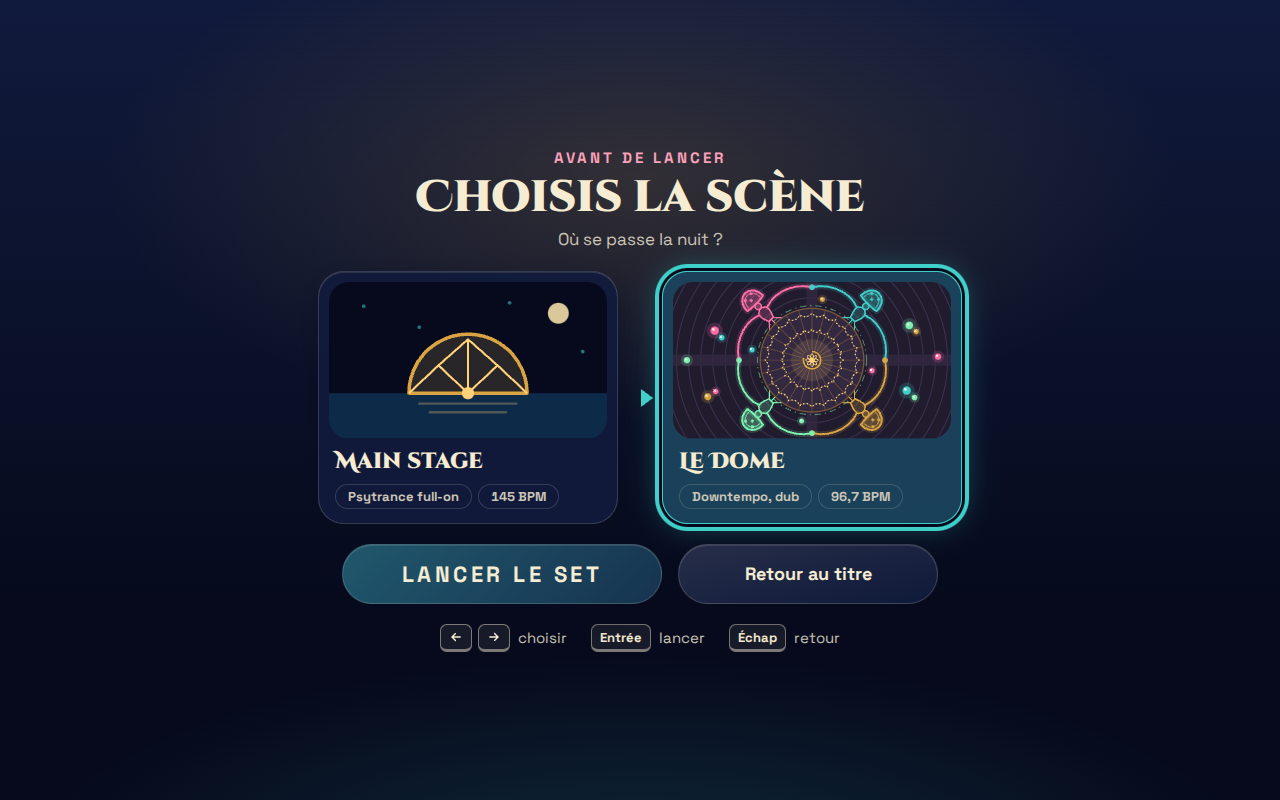
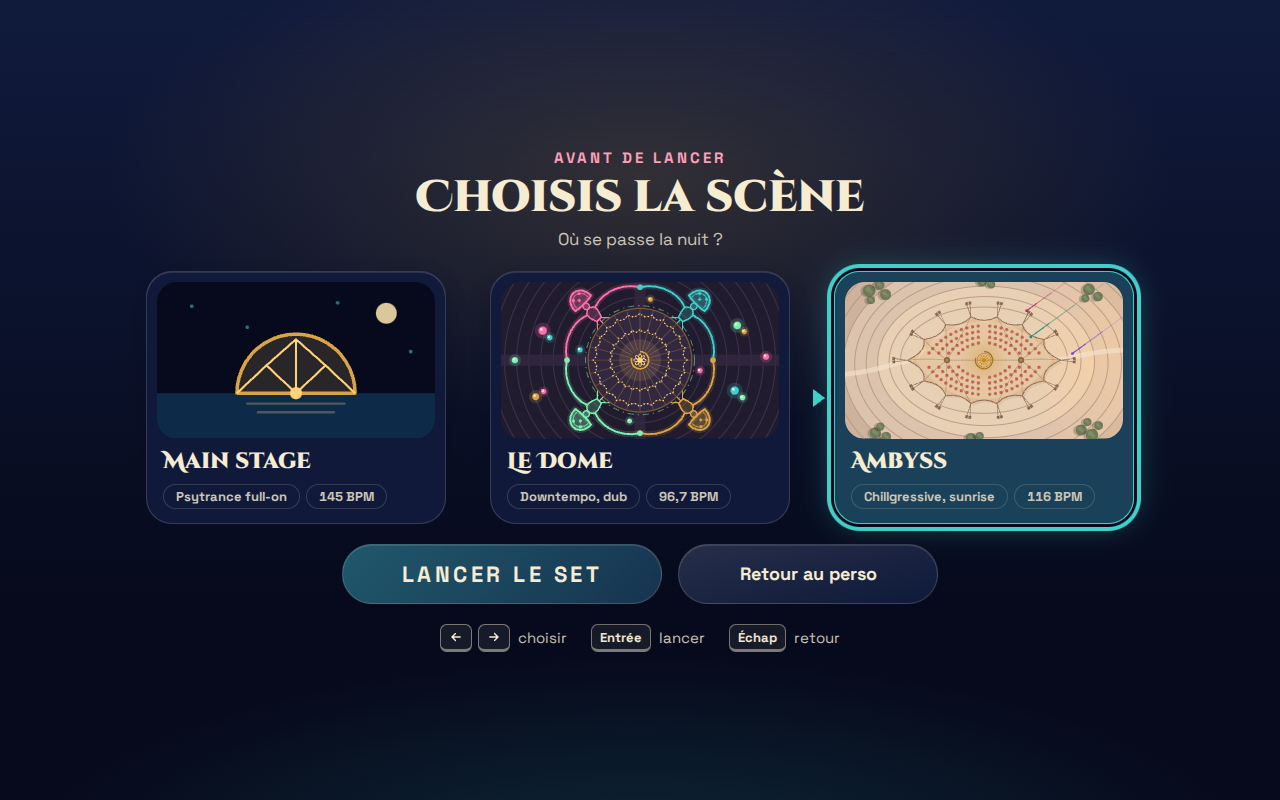
feat: play a whole game at Ambyss in the browser tests, and see it at its four moments
The gamepad player picks Ambyss, the third card of the stage screen, and
wins the short set on the shared seed. pnpm captures shoots Ambyss at dusk,
night, dawn and day, and the stage screen with Ambyss chosen; it gives each
level offer as long as a moment, since Ambyss drawn in software at full
quality can take seconds a frame. README, game design, art direction and
architecture list the third stage, its cosmic filter, tempo and sound.

Closes #374

Changed region(s): [[0.0938, 0.3125, 0.9062, 0.75]]

diff --git a/e2e/game.ts b/e2e/game.ts
@@ -179,6 +179,7 @@ export async function tiltLeftStick(page: Page, x: number, y: number): Promise<v
 export async function repeatUntil(
   action: () => Promise<void>,
   done: () => Promise<boolean>,
+  timeout = 30_000,
 ): Promise<void> {
   await expect
     .poll(
@@ -186,7 +187,7 @@ export async function repeatUntil(
         await action();
         return done();
       },
-      { timeout: 30_000 },
+      { timeout },
     )
     .toBe(true);
 }
@@ -195,8 +196,9 @@ export async function tapButtonUntil(
   page: Page,
   button: number,
   done: () => Promise<boolean>,
+  timeout?: number,
 ): Promise<void> {
-  await repeatUntil(() => tapButton(page, button), done);
+  await repeatUntil(() => tapButton(page, button), done, timeout);
 }
 
 // A fusion swaps a gear at its maximum level (5, for every base gear) for its fused form at level
@@ -234,7 +236,7 @@ export async function readGame(page: Page): Promise<GameSummary | null> {
   }, FUSED_LEVELS);
 }
 
-// A seed whose short set the player of `playWithPad` wins, on the main stage and at the Dome.
+// A seed whose short set the player of `playWithPad` wins, on the main stage, at the Dome and at Ambyss.
 // Some seeds are lost by it: a random one would make its games pass or fail by chance.
 export const PAD_SEED = 1;
 
@@ -243,10 +245,12 @@ export const PAD_SEED = 1;
 // ones. It plays after every step of the game, so that a loaded machine, which draws fewer frames,
 // does not change how it plays. Every level offer is taken with the pad, until the game ends.
 // `start` opens the game once the player is seated, so that it plays from the first step: with a
-// fixed seed (`&seed=`), the whole game is then the same on every run.
+// fixed seed (`&seed=`), the whole game is then the same on every run. `menuMs` bounds each level
+// offer: a page drawn in software at full quality can take seconds a frame.
 export async function playWithPad(
   page: Page,
   start: () => Promise<void> = () => Promise.resolve(),
+  menuMs = 30_000,
 ): Promise<{ status: SimState['status'] | undefined; upgrades: number }> {
   await page.evaluate(() => {
     const game = window.ozoboom;
@@ -303,11 +307,12 @@ export async function playWithPad(
   let status = (await readGame(page))?.status;
   while (status !== 'won' && status !== 'lost') {
     if (status === 'choosingUpgrade') {
-      await expect(firstCard).toHaveAttribute('aria-current', 'true');
+      await expect(firstCard).toHaveAttribute('aria-current', 'true', { timeout: menuMs });
       await tapButtonUntil(
         page,
         PAD.DpadRight,
         async () => (await firstCard.getAttribute('aria-current')) === null,
+        menuMs,
       );
       // Two levels at once present two offers in a row: a choice shows as one more upgrade, not as a status.
       const chosen = (await readGame(page))?.choices ?? 0;
@@ -315,6 +320,7 @@ export async function playWithPad(
         page,
         PAD.A,
         async () => ((await readGame(page))?.choices ?? 0) > chosen,
+        menuMs,
       );
       upgrades += 1;
     }

diff --git a/e2e/ambyss.spec.ts b/e2e/ambyss.spec.ts
@@ -1,0 +1,37 @@
+import { expect, test } from '@playwright/test';
+import {
+  PAD,
+  PAD_SEED,
+  collectConsoleErrors,
+  playWithPad,
+  plugFakeGamepad,
+  tapButtonUntil,
+} from './game';
+
+// Ambyss plays a fifth slower than the main stage: its short set of `?dev=fast` lasts longer.
+test.describe.configure({ timeout: 420_000 });
+
+test('picks Ambyss on the stage screen and plays a whole game there, to the sunrise', async ({
+  page,
+}) => {
+  const errors = collectConsoleErrors(page);
+  await plugFakeGamepad(page);
+  await page.goto(`./?dev=fast&stages&seed=${String(PAD_SEED)}`);
+  const stages = page.getByRole('radiogroup', { name: 'Scènes' });
+  const ambyss = stages.getByRole('radio', { name: /Ambyss/ });
+  await tapButtonUntil(page, PAD.A, () => stages.isVisible());
+  await expect(stages.getByRole('radio', { name: /Main stage/ })).toBeChecked();
+  await tapButtonUntil(page, PAD.DpadRight, () => ambyss.isChecked());
+  const hud = page.getByRole('region', { name: 'Pièges' });
+
+  const { status, upgrades } = await playWithPad(page, async () => {
+    await tapButtonUntil(page, PAD.A, () => hud.isVisible());
+    expect(await page.evaluate(() => window.ozoboom?.state.setId)).toBe('ambyss');
+  });
+  expect(status).toBe('won');
+  expect(upgrades).toBeGreaterThan(0);
+  const end = page.getByRole('region', { name: 'Fin de partie' });
+  await expect(end).toBeVisible();
+  await expect(end).toContainText('Sunrise');
+  expect(errors).toEqual([]);
+});

diff --git a/scripts/captures.ts b/scripts/captures.ts
@@ -227,8 +227,8 @@ try {
     await page.goto(url);
     const stages = page.getByRole('radiogroup', { name: 'Scènes' });
     await pressUntil(page, 'Enter', () => stages.isVisible());
-    const dome = stages.getByRole('radio', { name: /Le Dome/ });
-    await pressUntil(page, 'ArrowRight', () => dome.isChecked());
+    const ambyss = stages.getByRole('radio', { name: /Ambyss/ });
+    await pressUntil(page, 'ArrowRight', () => ambyss.isChecked());
     await page.evaluate(() => document.fonts.ready);
     await page.waitForTimeout(SETTLE_MS);
     await save(await page.screenshot(), 'ecran-choisis-la-scene');
@@ -238,6 +238,7 @@ try {
   for (const stage of [
     { name: /Main stage/, moments: moments('moment-'), day: 'moment-4-jour-sunrise' },
     { name: /Le Dome/, moments: moments('dome-moment-'), day: 'dome-moment-4-jour' },
+    { name: /Ambyss/, moments: moments('ambyss-moment-'), day: 'ambyss-moment-4-jour' },
   ]) {
     const page = await newPage();
     const errors = collectConsoleErrors(page);
@@ -291,7 +292,7 @@ try {
       },
       setOf(content, setId).tiers.length - 1,
     );
-    const played = playWithPad(page).catch(async (error: unknown) => {
+    const played = playWithPad(page, undefined, WAIT_MS).catch(async (error: unknown) => {
       const offers = await page.evaluate(() => {
         const state = window.ozoboom?.state;
         const player = state?.players[0];

diff --git a/README.md b/README.md
@@ -6,13 +6,15 @@ Jouer : [r4mbo7.github.io/Ozoboom](https://r4mbo7.github.io/Ozoboom/)
 
 ## État
 
-Au 2026-10-05 : la V0.2 est assemblée, il reste à la jouer à distance. Trois classes (la Luxiole, le Nounours, l'Hygie), seul ou de 2 à 4 amis, sur un même écran ou en ligne : lumière du coucher au lever du soleil, bad vibes en masques, enceintes annexes, agrès de cirque, reliques. Le nom vient d'Ozora et de Boom, deux festivals de psytrance. Deux scènes au choix avant le set : la main stage au bord du lac, à 145 BPM, et le Dome, une coupole de bois sur le sable, à 96,7 BPM.
+Au 2026-10-05 : la V0.2 est assemblée, il reste à la jouer à distance. Trois classes (la Luxiole, le Nounours, l'Hygie), seul ou de 2 à 4 amis, sur un même écran ou en ligne : lumière du coucher au lever du soleil, bad vibes en masques, enceintes annexes, agrès de cirque, reliques. Le nom vient d'Ozora et de Boom, deux festivals de psytrance. Trois scènes au choix avant le set : la main stage au bord du lac, à 145 BPM, le Dome, une coupole de bois sur le sable, à 96,7 BPM, et Ambyss, une toile tendue au sommet d'une butte, à 116 BPM.
 
 ![Une partie à quatre, de nuit : la VJ, le roadie et le care, devenus depuis la Luxiole, le Nounours et l'Hygie, et une seconde VJ](docs/captures/coop-quatre-joueurs-nuit.png)
 
 ![La partie à l'aube : la Batterie à plat au dernier drop](docs/captures/moment-3-aube.png)
 
 ![Le Dome de nuit : la couronne de poteaux, les géants champignons et le Couvre-feu au premier drop](docs/captures/dome-moment-2-nuit.png)
+
+![Ambyss à l'aube : la toile tendue sur la butte, les coussins rouges et les voiles de lumière](docs/captures/ambyss-moment-3-aube.png)
 
 ### Jouer à plusieurs
 
@@ -26,7 +28,7 @@ Au doigt, seul ou en ligne, de préférence tenu à l'horizontale. Un pouce sur 
 
 Pour jouer sans les barres du navigateur, ajouter le jeu à l'écran d'accueil (Safari : Partager puis « Sur l'écran d'accueil » ; Chrome : menu puis « Installer l'application ») et le lancer depuis son icône.
 
-Les autres captures (crépuscule, sunrise, le Dome aux quatre moments, chaque écran dont le choix de la scène, le banc à 300 masques, la partie à quatre) sont dans [docs/captures](docs/captures).
+Les autres captures (crépuscule, sunrise, le Dome et Ambyss aux quatre moments, chaque écran dont le choix de la scène, le banc à 300 masques, la partie à quatre) sont dans [docs/captures](docs/captures).
 
 | Jalon      | Contenu                                                                                                                                                                                                                                               | État                                        |
 | ---------- | ----------------------------------------------------------------------------------------------------------------------------------------------------------------------------------------------------------------------------------------------------- | ------------------------------------------- |
@@ -36,6 +38,7 @@ Les autres captures (crépuscule, sunrise, le Dome aux quatre moments, chaque é
 | V0.2       | Trois classes, coop locale, coop en ligne par lien, pair à pair en lockstep ([exigences](docs/brainstorms/2026-10-05-v0.2-requirements.md), [plan](docs/plans/v0.2.md), [ADR 0007](docs/adr/0007-coop-en-ligne-lockstep-webrtc-peerjs.md))            | assemblée, vérifications à distance à faire |
 | V1         | Tous les pièges, équilibrage, tactile, mode radio, retours des joueurs ([jalon](https://github.com/r4mbo7/Ozoboom/milestone/2))                                                                                                                       | en cours : tactile fait                     |
 | Le Dome    | Deuxième scène au choix : coupole de bois sur le sable, downtempo à 96,7 BPM, obstacles ([exigences](docs/brainstorms/2026-10-10-dome-requirements.md), [plan](docs/plans/dome.md), [ADR 0012](docs/adr/0012-le-tempo-est-une-donnee-de-la-scene.md)) | assemblé, à jouer                           |
+| Ambyss     | Troisième scène au choix : toile tendue sur une butte, chillgressive de lever du soleil à 116 BPM ([exigences](docs/brainstorms/2026-10-11-ambyss-requirements.md), [plan](docs/plans/ambyss.md))                                                     | assemblé, à jouer                           |
 | V2         | Classement public : soirée du jour, scores vérifiés par rejeu                                                                                                                                                                                         | à venir                                     |
 
 ## Documentation

diff --git a/docs/direction-artistique.md b/docs/direction-artistique.md
@@ -42,6 +42,14 @@ Chaque classe a sa couleur et sa silhouette : un joueur daltonien doit distingue
 - Le filtre est rendu seulement : il ne change ni l'heure, ni le tempo, ni la simulation.
 - Mode calme : pas de rémanence, ondulation lente sans cycle de teintes.
 
+### Le filtre cosmique d'Ambyss
+
+« Traces et voiles », choisi le 2026-10-11 : permanent à Ambyss, rendu seulement, peint sur le décor et sous tout ce qui bouge.
+
+- Traces : sur chaque temps, une ou deux traces fines, comme dans une chambre à brouillard, partent du ciel de l'est en diagonale, s'enroulent deux fois et s'effacent en une mesure ; irisées la nuit, plus sombres le jour.
+- Voiles : six voiles de lumière larges glissent lentement, inclinés de 36°, un passage par phrase ; pêche au crépuscule, violets et turquoise la nuit, dorés à l'aube.
+- Jamais sur les bad vibes ni sur l'interface : le 3:1 des silhouettes et le 4,5:1 du texte tiennent. Mode calme : pas de traces, voiles immobiles.
+
 ## Formes
 
 - Vue de dessus, 2D, tout dessiné par le code, sans fichier d'image. La lisibilité d'une centaine d'entités prime sur le détail.
@@ -70,12 +78,13 @@ Le tempo est celui de la scène ([ADR 0012](adr/0012-le-tempo-est-une-donnee-de-
 | ---------- | ------------------------------ | -------- | ---------------- | ------------------- |
 | Main stage | **145 BPM**, full-on psytrance | 413,8 ms | 1,655 s          | 26,5 s              |
 | Le Dome    | **96,7 BPM**, les 2/3 de 145   | 620,7 ms | 2,48 s           | 39,7 s              |
+| Ambyss     | **116 BPM**, les 4/5 de 145    | 517,2 ms | 2,07 s           | 33,1 s              |
 
 Tout ce qui bouge est calé dessus : le noyau pulse sur le kick, les pièges tirent sur le temps, les vagues arrivent sur la mesure, le boss sur le drop. Les durées d'animation s'expriment en temps et en mesures, pas en millisecondes. `setTempo(set)` de `src/sim/lineup.ts` donne ces conversions pour la scène jouée. L'heure, elle, avance avec le set entier : lente, elle ne pulse jamais.
 
 ## Son
 
-- Musique : chaque scène a ses morceaux. Main stage : psytrance (full-on ou progressive, 140 à 150 BPM). Dome : downtempo, dub et psybient à 96,7 BPM, avec darbouka, riq, ney, oud, kalimba, chœur, sirène dub et bol chantant, sous une réverbe de coupole de 3,6 s. En couches qui s'épaississent avec les vagues et se vident au break avant le drop. En V0, la musique est synthétisée dans le navigateur (Web Audio), ce qui règle la question des droits et du poids.
+- Musique : chaque scène a ses morceaux. Main stage : psytrance (full-on ou progressive, 140 à 150 BPM). Dome : downtempo, dub et psybient à 96,7 BPM, avec darbouka, riq, ney, oud, kalimba, chœur, sirène dub et bol chantant, sous une réverbe de coupole de 3,6 s. Ambyss : chillgressive de lever du soleil à 116 BPM, « Premier rayon » en mi majeur (vi-IV-I-V), kick doux, basse en contretemps, arpège pluck, cordes qui pleurent au break et doublées à l'octave au drop, chœur, sous une réverbe de plein air courte et claire de 1,6 s. En couches qui s'épaississent avec les vagues et se vident au break avant le drop. En V0, la musique est synthétisée dans le navigateur (Web Audio), ce qui règle la question des droits et du poids.
 - Effets : courts, tonals, dans la gamme du morceau. Les ennemis sont sourds (bruits mats, étouffés), les joueurs brillants (sons synthétiques, aigus).
 - Droits : uniquement des pistes libres (CC0, CC-BY) ou composées pour le jeu. Aucun morceau commercial.
 

diff --git a/docs/game-design.md b/docs/game-design.md
@@ -19,7 +19,7 @@ Deux manières de tuer, **tranchées** : tirer directement sur les ennemis, et p
 
 ## Boucle de jeu
 
-Une partie dure 15 à 25 minutes et suit le set : des phrases de 16 mesures (26,5 s à 145 BPM sur la main stage, 39,7 s au Dome) forment la montée, puis un break et un drop closent chaque palier, avec un boss sur le drop. Le boss arrive avec une escorte : les bad vibes du palier continuent d'arriver, un peu plus denses qu'à la fin de la montée ; le break reste calme. Le déroulé du set est visible à l'écran comme un line-up : les joueurs savent quand le drop tombe.
+Une partie dure 15 à 25 minutes et suit le set : des phrases de 16 mesures (26,5 s à 145 BPM sur la main stage, 33,1 s à Ambyss, 39,7 s au Dome) forment la montée, puis un break et un drop closent chaque palier, avec un boss sur le drop. Le boss arrive avec une escorte : les bad vibes du palier continuent d'arriver, un peu plus denses qu'à la fin de la montée ; le break reste calme. Le déroulé du set est visible à l'écran comme un line-up : les joueurs savent quand le drop tombe.
 
 Les bad vibes arrivent de partout sur le bord de la piste. Par moments, une vague de 8 mesures arrive d'un ou deux côtés : 8 bad vibes sur 10 en viennent, les autres de partout.
 
@@ -161,9 +161,11 @@ Les nombres sont des points de départ, à régler dans `src/data/` en jouant.
 | ---------- | ---------------------------------- | ------------------------------------------------------- | --------------------------------------- |
 | Main stage | psytrance full-on, 145 BPM         | rive du lac                                             | aucun                                   |
 | Le Dome    | downtempo, dub, psybient, 96,7 BPM | coupole de bois sur le sable, quatre géants champignons | poteaux de la couronne, bras des géants |
+| Ambyss     | chillgressive, sunrise, 116 BPM    | butte, piste en amande à coussins, toile tendue         | aucun                                   |
 
-- Même arène, même noyau, mêmes paliers et boss ; au Dome, les quatre enceintes sont replacées autour de la coupole.
-- Au Dome, tout ce qui se compte en temps, en mesures et en phrases dure un tiers de plus ; les durées en ticks restent en temps réel ([ADR 0012](adr/0012-le-tempo-est-une-donnee-de-la-scene.md)). Ses vagues de groupe sont plus denses pour garder la pression par seconde.
+- Même arène, même noyau, mêmes paliers et boss ; au Dome et à Ambyss, les quatre enceintes sont replacées dans les coins.
+- Au Dome, tout ce qui se compte en temps, en mesures et en phrases dure moitié plus ; les durées en ticks restent en temps réel ([ADR 0012](adr/0012-le-tempo-est-une-donnee-de-la-scene.md)). Ses vagues de groupe sont plus denses pour garder la pression par seconde.
+- À Ambyss, même règle à 116 BPM : tout ce qui se compte en temps dure un quart de plus, et ses vagues sont plus denses d'autant. La butte, la toile, ses mâts et ses piquets ne sont qu'un décor.
 - Les obstacles arrêtent les tirs et filtrent sans fermer : joueurs et bad vibes passent entre deux poteaux ou deux pierres des bras, les lourdes et les boss prennent les quatre grandes entrées dans les axes. Rien n'apparaît ni ne se pose dedans.
 
 ## Rythme et musique

diff --git a/docs/architecture.md b/docs/architecture.md
@@ -13,7 +13,7 @@ Les choix ci-dessous découlent des piliers de `vision.md`. Les décisions coût
 
 ## Le tick est une subdivision du temps musical
 
-Un temps à 145 BPM vaut 12 ticks, donc la simulation tourne à **29 Hz** (`TICK_RATE_HZ`), une mesure vaut 48 ticks et une phrase 768. Chaque set peut allonger son temps (`SetDefinition.ticksPerBeat`) : le Dome en compte 18, soit 96,7 BPM, au même pas de 29 Hz. Temps, mesures, phrases et drops tombent sur des ticks entiers : aucune dérive, aucun flottant dans le rythme. Les durées écrites en ticks dans les données restent en temps réel. Le rendu, lui, tourne à la fréquence de l'écran et interpole. Les constantes et `tempoOf` sont dans `src/shared/tempo.ts`.
+Un temps à 145 BPM vaut 12 ticks, donc la simulation tourne à **29 Hz** (`TICK_RATE_HZ`), une mesure vaut 48 ticks et une phrase 768. Chaque set peut allonger son temps (`SetDefinition.ticksPerBeat`) : le Dome en compte 18, soit 96,7 BPM, Ambyss 15, soit 116 BPM, au même pas de 29 Hz. Temps, mesures, phrases et drops tombent sur des ticks entiers : aucune dérive, aucun flottant dans le rythme. Les durées écrites en ticks dans les données restent en temps réel. Le rendu, lui, tourne à la fréquence de l'écran et interpole. Les constantes et `tempoOf` sont dans `src/shared/tempo.ts`.
 
 ## Organisation du code
 
